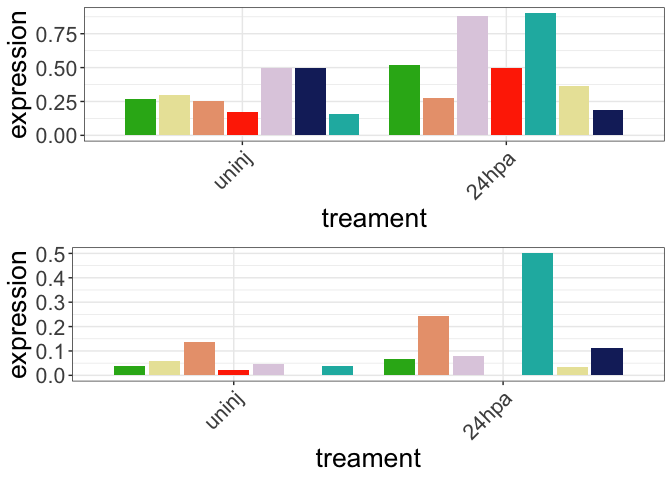
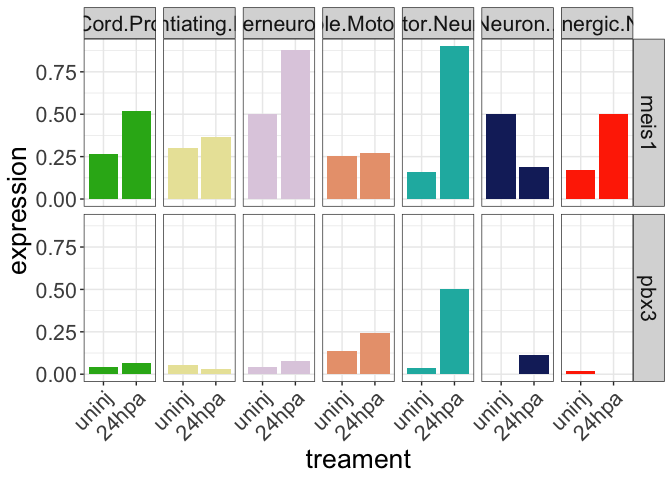
update readme Former-commit-id: 218730e37688473dd5116eda05c129f1796ab7aa

diff --git a/SingleCell/README.md b/SingleCell/README.md
@@ -451,26 +451,7 @@ plot$celltype <- factor(plot$celltype, levels = c("Spinal.Cord.Progenitor", "Dif
 
 ## plot average expression of genes across each cluster at each timepoint
 time.plot <- filter(plot, treament %in% c("uninj", "24hpa"))
-pmeis <- ggplot(filter(time.plot, gene == "meis1"), aes(x=treament, y=expression, group=treament, fill=celltype))+
-  geom_bar(stat = "identity", position = "dodge2") +
-  scale_fill_manual(values = my.color.neural) +
-  theme_bw() +
-  theme(legend.position = "none", text = element_text(size=20)) +
-  Seurat:::RotatedAxis()
 
-ppbx <- ggplot(filter(time.plot, gene == "pbx3"), aes(x=treament, y=expression, group=treament, fill=celltype))+
-  geom_bar(stat = "identity", position = "dodge2") +
-  scale_fill_manual(values = my.color.neural) +
-  theme_bw() +
-  theme(legend.position = "none", text = element_text(size=20)) +
-  Seurat:::RotatedAxis()
-
-plot_grid(pmeis, ppbx, nrow = 2)
-```
-
-![](README_files/figure-markdown_github/grn-1.png)
-
-``` r
 ggplot(time.plot, aes(x=treament, y=expression, group=treament, fill=celltype))+
   geom_bar(stat = "identity", position = "dodge2") +
   scale_fill_manual(values = my.color.neural) +
@@ -480,7 +461,7 @@ ggplot(time.plot, aes(x=treament, y=expression, group=treament, fill=celltype))+
   Seurat:::RotatedAxis()
 ```
 
-![](README_files/figure-markdown_github/grn-2.png)
+![](README_files/figure-markdown_github/grn-1.png)
 
 Figure 5D: featuremap to show expression of pbx3 and meis1 across neural clusters
 ---------------------------------------------------------------------------------
